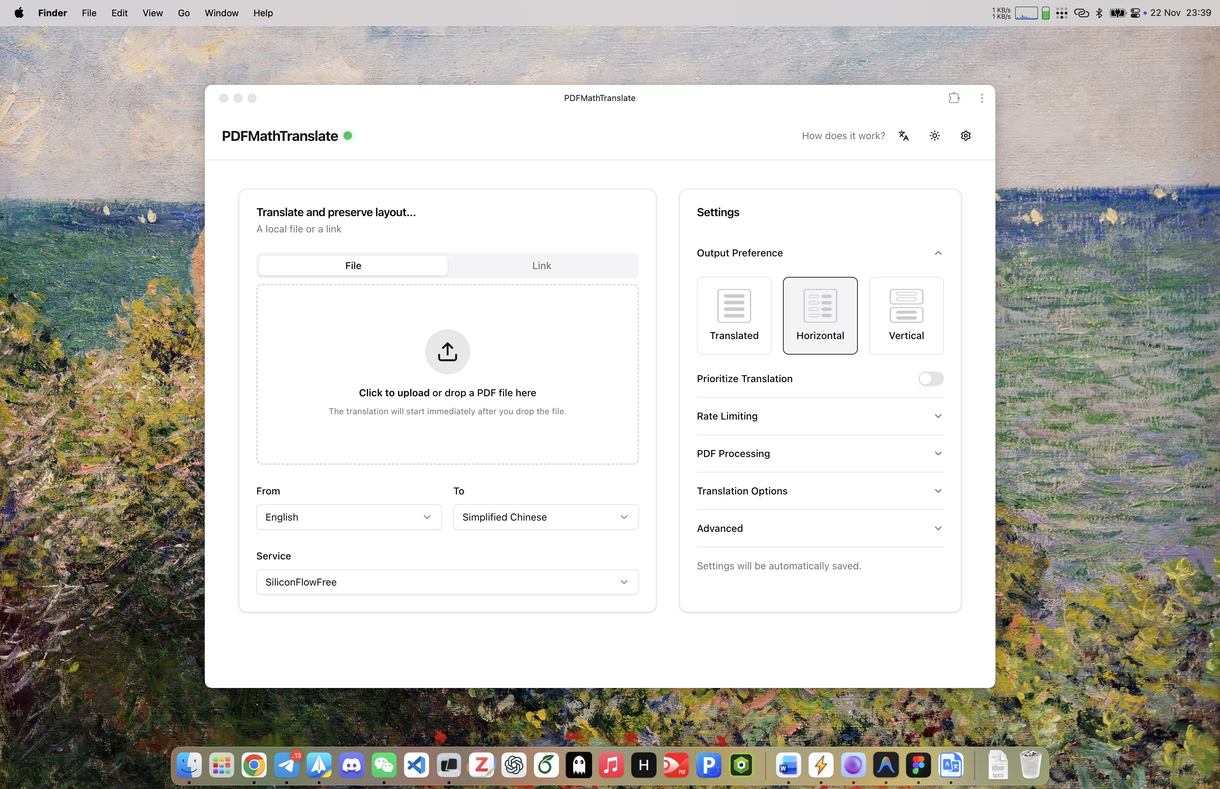
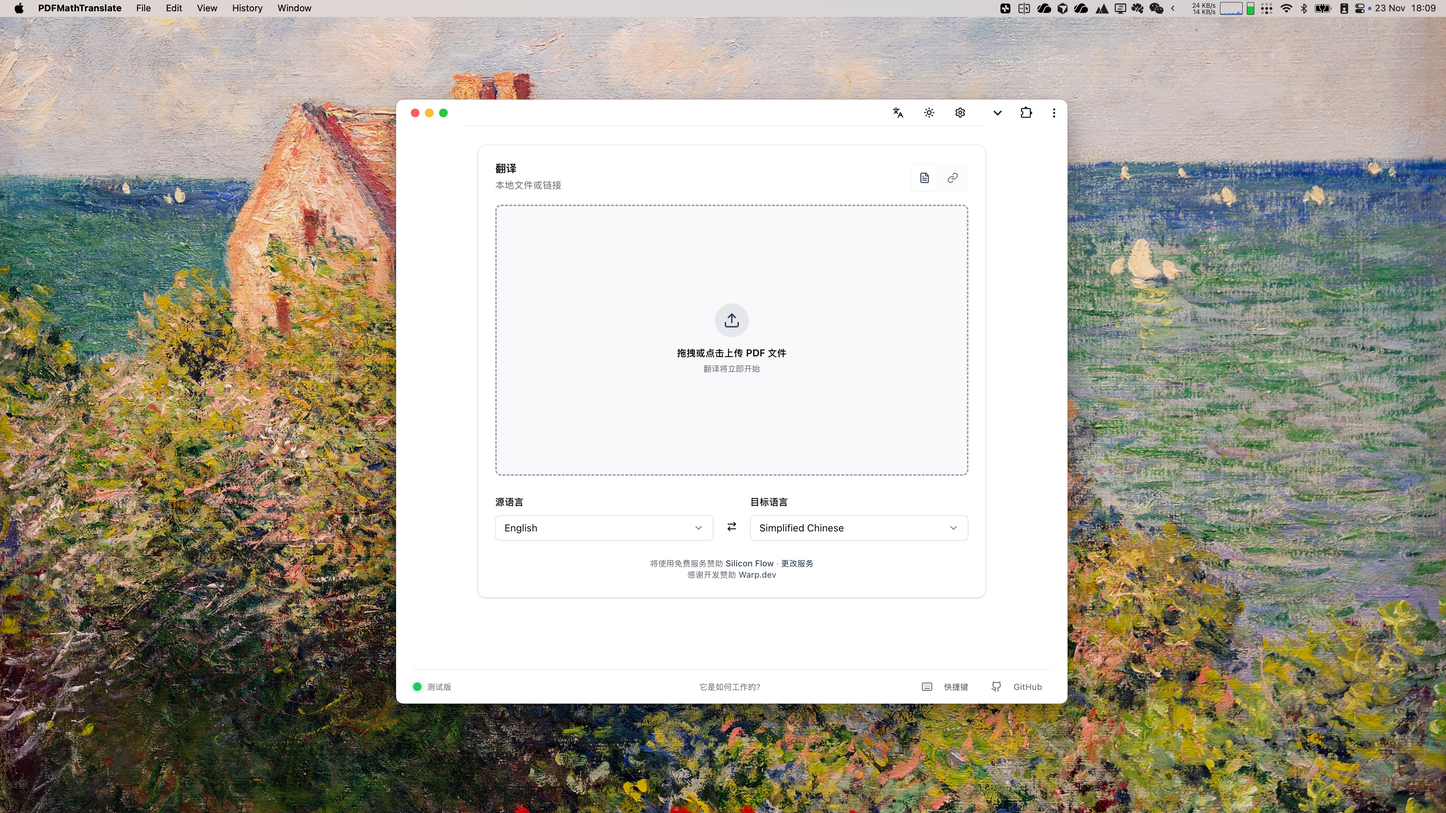
doc: description about the features

diff --git a/README.md b/README.md
@@ -3,194 +3,57 @@
 <img src="./docs/images/gui-vue.jpeg" alt="banner"/>
 
 <h2 id="title">Experimental GUI for PDFMathTranslate-next</h2>
+</div>
 
+### About this fork
 In this fork, active developers are working on a Vue.js GUI for PDFMathTranslate-next, which brings a more firendly user experience, substantially improved quality, and much more features.
 
 This fork, however, is still under development and is not stable. It is not recommended to use it for production.
 
-<p>
-  <!-- PyPI -->
-  <a href="https://pypi.org/project/pdf2zh-next/">
-    <img src="https://img.shields.io/pypi/v/pdf2zh-next"></a>
-  <a href="https://pepy.tech/projects/pdf2zh-next">
-    <img src="https://static.pepy.tech/badge/pdf2zh-next"></a>
-  <a href="https://hub.docker.com/repository/docker/awwaawwa/pdfmathtranslate-next/tags">
-    <img src="https://img.shields.io/docker/pulls/awwaawwa/pdfmathtranslate-next"></a>
-  <a href="https://hellogithub.com/repository/8ec2cfd3ef744762bf531232fa32bc47" target="_blank"><img src="https://api.hellogithub.com/v1/widgets/recommend.svg?rid=8ec2cfd3ef744762bf531232fa32bc47&claim_uid=JQ0yfeBNjaTuqDU&theme=small" alt="Featured｜HelloGitHub" /></a>
-  <!-- <a href="https://gitcode.com/PDFMathTranslate/PDFMathTranslate-next/overview">
-    <img src="https://gitcode.com/PDFMathTranslate/PDFMathTranslate-next/star/badge.svg"></a> -->
-  <!-- <a href="https://huggingface.co/spaces/reycn/PDFMathTranslate-Docker">
-    <img src="https://img.shields.io/badge/%F0%9F%A4%97-Online%20Demo-FF9E0D"></a> -->
-  <!-- <a href="https://www.modelscope.cn/studios/AI-ModelScope/PDFMathTranslate"> -->
-    <!-- <img src="https://img.shields.io/badge/ModelScope-Demo-blue"></a> -->
-  <!-- <a href="https://github.com/PDFMathTranslate/PDFMathTranslate-next/pulls">
-    <img src="https://img.shields.io/badge/contributions-welcome-green"></a> -->
-  <a href="https://t.me/+Z9_SgnxmsmA5NzBl">
-    <img src="https://img.shields.io/badge/Telegram-2CA5E0?style=flat-squeare&logo=telegram&logoColor=white"></a>
-  <!-- License -->
-  <a href="./LICENSE">
-    <img src="https://img.shields.io/github/license/PDFMathTranslate/PDFMathTranslate-next"></a>
-  <a href="https://hosted.weblate.org/engage/pdfmathtranslate-next/">
-    <img src="https://hosted.weblate.org/widget/pdfmathtranslate-next/svg-badge.svg" alt="translation status" /></a>
-    <a href="https://deepwiki.com/PDFMathTranslate/PDFMathTranslate-next"><img src="https://deepwiki.com/badge.svg" alt="Ask DeepWiki"></a>
-</p>
+### Main features
+- **One-click translation** The new workflow is now designed to minimize the efforts in submitting a task. The users are afforded to start the translation using simply either a) dropping a file or b) selecting a file.
 
-<a href="https://trendshift.io/repositories/12424" target="_blank"><img src="https://trendshift.io/api/badge/repositories/12424" alt="Byaidu%2FPDFMathTranslate | Trendshift" style="width: 250px; height: 55px;" width="250" height="55"/></a>
+- **Dark mode and customizable colors** All functions have now been reorganized to simply user experience, with additional support for accent colors, dark modes, and the visualized preference of layouts.
 
-</div>
+    <img src="./docs/images/gui-vue-dark.jpeg"  width="50%" alt="banner"/>
 
-PDF scientific paper translation and bilingual comparison.
+- **Running as an application** The new interface can be installed as a standalone PWA application (like other native desktop applications) thus brings much better experience to the workflow that users may need.
 
-- 📊 Preserve formulas, charts, table of contents, and annotations _([preview](#preview))_.
-- 🌐 Support [multiple languages](https://pdf2zh-next.com/supported_languages.html), and diverse [translation services](https://pdf2zh-next.com/advanced/Documentation-of-Translation-Services.html).
-- 🤖 Provides [commandline tool](https://pdf2zh-next.com/getting-started/USAGE_commandline.html), [interactive user interface](https://pdf2zh-next.com/getting-started/USAGE_webui.html), and [Docker](https://pdf2zh-next.com/getting-started/INSTALLATION_docker.html)
+- **Simplfied progress indicators** The present version visualized the progress of each stage of the translation thus making more sence for users.
 
-<!-- Feel free to provide feedback in [GitHub Issues](https://github.com/PDFMathTranslate/PDFMathTranslate-next/issues) or [Telegram Group](https://t.me/+Z9_SgnxmsmA5NzBl). -->
+    <img src="./docs/images/gui-vue-progress.png" width="50%" alt="banner"/>
 
-> [!WARNING]
->
-> This project is provided "as is" under the [AGPL v3](https://github.com/PDFMathTranslate/PDFMathTranslate-next/blob/main/LICENSE) license, and no guarantees are provided for the quality and performance of the program. **The entire risk of the program's quality and performance is borne by you.** If the program is found to be defective, you will be responsible for all necessary service, repair, or correction costs.
->
-> Due to the maintainers' limited energy, we do not provide any form of usage assistance or problem-solving. Related issues will be closed directly! (Pull requests to improve project documentation are welcome; bugs or friendly issues that follow the issue template are not affected by this)
 
+- **Multilingual interface** Now we support for much more languages for the interfaces
 
-For details on how to contribute, please consult the [Contribution Guide](https://pdf2zh-next.com/community/Contribution-Guide.html).
+    <img src="./docs/images/gui-vue-language.png"  width="50%" alt="banner"/>
 
-<h2 id="updates">Updates</h2>
+- **Much more features from project `next`** Rich features from PDFMathTranslate-next have now been incorporated in GUI
 
-- [Jun. 4, 2025] The project is renamed and move to [PDFMathTranslate/PDFMathTranslate-next](https://github.com/PDFMathTranslate/PDFMathTranslate-next) (by [@awwaawwa](https://github.com/awwaawwa))
-- [Mar. 3, 2025] Experimental support for the new backend [BabelDOC](https://github.com/funstory-ai/BabelDOC) WebUI added as an experimental option (by [@awwaawwa](https://github.com/awwaawwa))
-- [Feb. 22 2025] Better release CI and well-packaged windows-amd64 exe (by [@awwaawwa](https://github.com/awwaawwa))
-- [Dec. 24 2024] The translator now supports local models on [Xinference](https://github.com/xorbitsai/inference) _(by [@imClumsyPanda](https://github.com/imClumsyPanda))_
-- [Dec. 19 2024] Non-PDF/A documents are now supported using `-cp` _(by [@reycn](https://github.com/reycn))_
-- [Dec. 13 2024] Additional support for backend by _(by [@YadominJinta](https://github.com/YadominJinta))_
-- [Dec. 10 2024] The translator now supports OpenAI models on Azure _(by [@yidasanqian](https://github.com/yidasanqian))_
+    <img src="./docs/images/gui-vue-setting.png" width="50%" alt="banner"/>
 
-<h2 id="preview">Preview</h2>
+- **Keyboard shortcuts** To improve the efficiency, every main operations in the main workflow have been assigned with common keyboard shorcuts. For example:
+    - `Command + R` to start a new task
+    - `Command + ,` to enter settings
 
-<div align="center">
-<!-- <img src="./docs/images/preview.gif" width="80%"  alt="preview"/> -->
-<img src="https://s.immersivetranslate.com/assets/r2-uploads/images/babeldoc-preview.png" width="80%"/>
-</div>
+    <img src="./docs/images/gui-vue-shortcuts.png"  width="50%" alt="banner"/>
 
-<h2 id="demo">Online Service 🌟</h2>
+More minor improvements:
 
-> [!NOTE]
->
-> pdf2zh 2.0 does not currently provide an online demo
+- **Status detection** Now the status of the server running the application is more visible yet with simplicity to the users.
 
-You can try our application out using either of the following demos:
+- **Elegant support for remote file** While remote files are less likely to be used, we provided a better UX experience for that.
 
-- [v1.x Public free service](https://pdf2zh.com/) online without installation _(recommended)_.
-- [Immersive Translate - BabelDOC](https://app.immersivetranslate.com/babel-doc/) Free usage quota is available; please refer to the FAQ section on the page for details. _(recommended)_
-<!-- - [Demo hosted on HuggingFace](https://huggingface.co/spaces/reycn/PDFMathTranslate-Docker)
-- [Demo hosted on ModelScope](https://www.modelscope.cn/studios/AI-ModelScope/PDFMathTranslate) without installation. -->
 
-Note that the computing resources of the demo are limited, so please avoid abusing them.
+- **Workload** We are now shoing the status and the workload of your computer to get a better sense of the procedure.
 
-<h2 id="install">Installation and Usage</h2>
 
-### Installation
+### How to build and install
+```
+cd ./frontend
+bun run build
+uv tool install -e ../
+pdf2zh_next --gui
+```
 
-1. [**Windows EXE**](https://pdf2zh-next.com/getting-started/INSTALLATION_winexe.html) <small>Recommand for Windows</small>
-2. [**Docker**](https://pdf2zh-next.com/getting-started/INSTALLATION_docker.html) <small>Recommand for Linux</small>
-3. [**uv** (a Python package manager)](https://pdf2zh-next.com/getting-started/INSTALLATION_uv.html) <small>Recommand for macOS</small>
-
----
-
-### Usage
-
-1. [Using **WebUI**](https://pdf2zh-next.com/getting-started/USAGE_webui.html)
-2. [Using **Zotero Plugin**](https://github.com/guaguastandup/zotero-pdf2zh) (Third party program)
-3. [Using **Commandline**](https://pdf2zh-next.com/getting-started/USAGE_commandline.html)
-
-For different use cases, we provide distinct methods to use our program. Check out [this page](./getting-started/getting-started.md) for more information.
-
-<h2 id="usage">Advanced Options</h2>
-
-For detailed explanations, please refer to our document about [Advanced Usage](https://pdf2zh-next.com/advanced/advanced.html) for a full list of each option.
-
-<h2 id="downstream">Secondary Development (APIs)</h2>
-
-> [!NOTE]
->
-> Currently, no relevant documentation is provided. It will be supplemented later. Please wait patiently.
-
-
-<!-- For downstream applications, please refer to our document about [API Details](./docs/APIS.md) for futher information about:
-
-- [Python API](./docs/APIS.md#api-python), how to use the program in other Python programs
-- [HTTP API](./docs/APIS.md#api-http), how to communicate with a server with the program installed -->
-
-<h2 id="langcode">Language Code</h2>
-
-If you don't know what code to use to translate to the language you need, check out [this documentation](https://pdf2zh-next.com/advanced/Language-Codes.html)
-
-<!-- 
-<h2 id="todo">TODOs</h2>
-
-- [ ] Parse layout with DocLayNet based models, [PaddleX](https://github.com/PaddlePaddle/PaddleX/blob/17cc27ac3842e7880ca4aad92358d3ef8555429a/paddlex/repo_apis/PaddleDetection_api/object_det/official_categories.py#L81), [PaperMage](https://github.com/allenai/papermage/blob/9cd4bb48cbedab45d0f7a455711438f1632abebe/README.md?plain=1#L102), [SAM2](https://github.com/facebookresearch/sam2)
-
-- [ ] Fix page rotation, table of contents, format of lists
-
-- [ ] Fix pixel formula in old papers
-
-- [ ] Async retry except KeyboardInterrupt
-
-- [ ] Knuth–Plass algorithm for western languages
-
-- [ ] Support non-PDF/A files
-
-- [ ] Plugins of [Zotero](https://github.com/zotero/zotero) and [Obsidian](https://github.com/obsidianmd/obsidian-releases) -->
-
-<h2 id="acknowledgement">Acknowledgements</h2>
-
-- [Immersive Translation](https://immersivetranslate.com) sponsors monthly Pro membership redemption codes for active contributors to this project, see details at: [CONTRIBUTOR_REWARD.md](https://github.com/funstory-ai/BabelDOC/blob/main/docs/CONTRIBUTOR_REWARD.md)
-
-- [SiliconFlow](https://siliconflow.cn) provides a free translation service for this project, powered by large language models (LLMs).
-
-- 1.x version: [Byaidu/PDFMathTranslate](https://github.com/Byaidu/PDFMathTranslate)
-
-
-- backend: [BabelDOC](https://github.com/funstory-ai/BabelDOC)
-
-- PDF Library: [PyMuPDF](https://github.com/pymupdf/PyMuPDF)
-
-- PDF Parsing: [Pdfminer.six](https://github.com/pdfminer/pdfminer.six)
-
-- PDF Preview: [Gradio PDF](https://github.com/freddyaboulton/gradio-pdf)
-
-- Layout Parsing: [DocLayout-YOLO](https://github.com/opendatalab/DocLayout-YOLO)
-
-- PDF Standards: [PDF Explained](https://zxyle.github.io/PDF-Explained/), [PDF Cheat Sheets](https://pdfa.org/resource/pdf-cheat-sheets/)
-
-- Multilingual Font: see [BabelDOC-Assets](https://github.com/funstory-ai/BabelDOC-Assets)
-
-- [Asynchronize](https://github.com/multimeric/Asynchronize/tree/master?tab=readme-ov-file)
-
-- [Rich logging with multiprocessing](https://github.com/SebastianGrans/Rich-multiprocess-logging/tree/main)
-
-- Documentation i18n using [Weblate](https://hosted.weblate.org/projects/pdfmathtranslate-next/) 
-
-
-<h2 id="conduct">Before submit your code</h2>
-
-We welcome the active participation of contributors to make pdf2zh better. Before you are ready to submit your code, please refer to our [Code of Conduct](https://pdf2zh-next.com/community/CODE_OF_CONDUCT.html) and [Contribution Guide](https://pdf2zh-next.com/community/Contribution-Guide.html).
-
-<h2 id="contrib">Contributors</h2>
-
-<a href="https://github.com/PDFMathTranslate/PDFMathTranslate-next/graphs/contributors">
-  <img src="https://opencollective.com/PDFMathTranslate/contributors.svg?width=890&button=false" />
-</a>
-
-![Alt](https://repobeats.axiom.co/api/embed/45529651750579e099960950f757449a410477ad.svg "Repobeats analytics image")
-
-<h2 id="star_hist">Star History</h2>
-
-<a href="https://star-history.com/#PDFMathTranslate/PDFMathTranslate-next&Date">
- <picture>
-   <source media="(prefers-color-scheme: dark)" srcset="https://api.star-history.com/svg?repos=PDFMathTranslate/PDFMathTranslate-next&type=Date&theme=dark" />
-   <source media="(prefers-color-scheme: light)" srcset="https://api.star-history.com/svg?repos=PDFMathTranslate/PDFMathTranslate-next&type=Date" />
-   <img alt="Star History Chart" src="https://api.star-history.com/svg?repos=PDFMathTranslate/PDFMathTranslate-next&type=Date"/>
- </picture>
-</a>
+The first and second step will be removed after the development.
